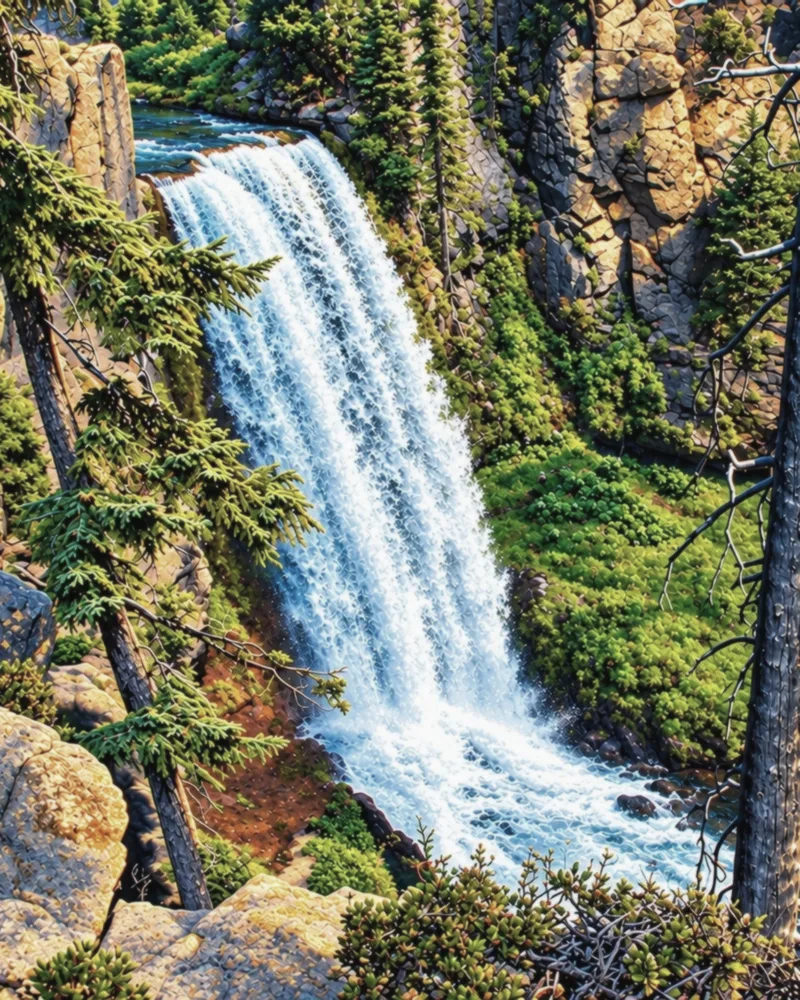
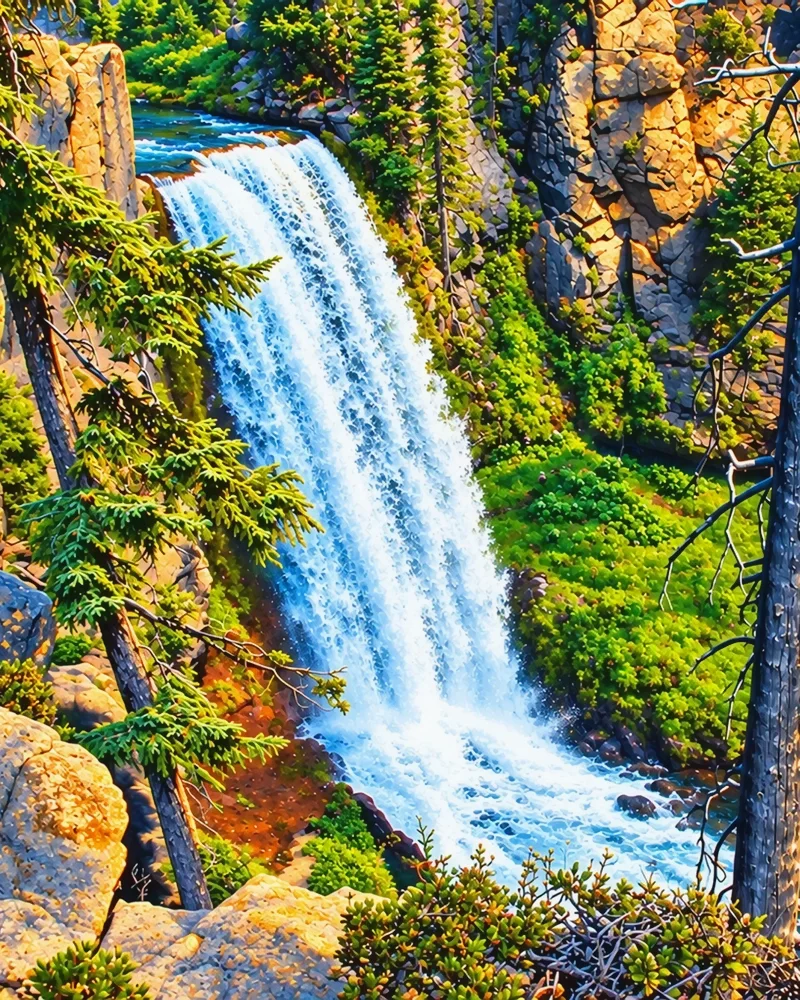
Blended art: no black sky on Cape Lookout, vibrant and less HDR base photos

diff --git a/client/public/outzide-map/assets/blend-art.js b/client/public/outzide-map/assets/blend-art.js
@@ -188,7 +188,7 @@ const RECIPES={
  proxy:{"W":800,"H":1000,"mesh":[[[675,600],[710,585],[745,600],[750,650],[735,690],[690,695],[670,650]]],"cutouts":[{"cls":"fall","look":"bw","poly":[[380,0],[470,0],[490,100],[500,250],[510,380],[540,480],[580,600],[600,700],[615,800],[620,900],[590,940],[470,935],[440,880],[430,800],[405,700],[385,640],[355,560],[345,450],[300,350],[300,150],[340,60]]},{"cls":"veg","look":"bw","poly":[[0,0],[380,0],[340,60],[300,150],[300,350],[345,450],[350,500],[0,500]]},{"cls":"veg","look":"lc","poly":[[0,500],[350,500],[355,560],[385,640],[405,700],[430,800],[440,880],[460,930],[470,1000],[0,1000]]},{"cls":"veg","look":"lc","poly":[[470,0],[800,0],[800,200],[700,230],[500,210],[500,130],[490,100]]},{"cls":"veg","look":"bw","poly":[[500,210],[700,230],[800,200],[800,420],[740,450],[620,430],[540,440],[510,380],[500,250]]},{"cls":"veg","look":"pop","poly":[[540,440],[620,430],[740,450],[800,420],[800,900],[700,890],[620,900],[615,800],[600,700],[580,600],[550,500]]}]},
  tumalo:{"W":800,"H":1000,"mesh":[[[440,930],[490,905],[550,915],[570,960],[540,1000],[450,1000],[420,970]]],"cutouts":[{"cls":"fall","look":"bw","poly":[[150,200],[200,160],[290,140],[330,150],[370,250],[430,360],[480,460],[500,540],[520,620],[555,700],[620,740],[690,790],[700,860],[620,880],[500,870],[420,830],[340,760],[300,680],[280,600],[250,520],[205,420],[195,330],[170,260]]},{"cls":"veg","look":"bw","poly":[[470,0],[800,0],[800,440],[740,420],[700,330],[600,300],[540,260],[500,150]]},{"cls":"veg","look":"lc","poly":[[450,350],[540,290],[610,305],[680,370],[730,440],[740,520],[745,700],[735,800],[690,790],[620,740],[555,700],[520,620],[500,540],[480,460],[430,360]]},{"cls":"veg","look":"pop","poly":[[0,720],[80,710],[130,790],[200,830],[240,900],[330,880],[390,930],[330,1000],[0,1000]]},{"cls":"veg","look":"lc","poly":[[0,0],[150,0],[150,200],[170,260],[195,330],[205,420],[250,520],[280,600],[300,680],[340,760],[300,820],[240,900],[200,830],[130,790],[80,710],[0,720]]},{"cls":"veg","look":"bw","poly":[[330,1000],[390,930],[420,860],[500,880],[620,880],[700,870],[740,900],[800,930],[800,1000]]}]},
  brandywine:{"W":800,"H":1000,"avoid":[],"mesh":[[[600,795],[640,778],[685,790],[680,850],[650,900],[620,960],[590,990],[565,930],[560,860],[575,815]]],"cutouts":[{"cls":"fall","look":"bw","poly":[[402,315],[450,310],[498,318],[500,400],[500,520],[500,700],[498,820],[490,890],[430,905],[360,890],[350,800],[350,650],[355,500],[370,400],[385,340]]},{"cls":"veg","look":"bw","poly":[[0,265],[100,255],[200,265],[300,290],[390,305],[385,340],[370,380],[250,385],[100,380],[0,375]]},{"cls":"veg","look":"bw","poly":[[500,318],[550,300],[600,330],[640,380],[620,470],[630,560],[600,620],[640,700],[600,760],[560,760],[520,700],[500,640],[502,520],[500,400]]},{"cls":"veg","look":"pop","poly":[[700,150],[790,130],[800,700],[760,720],[690,640],[640,560],[620,480],[640,380],[620,330],[690,250]]},{"cls":"veg","look":"lc","poly":[[0,380],[100,385],[250,390],[370,385],[355,500],[350,600],[300,640],[200,640],[100,650],[0,660]]},{"cls":"water","look":"col","poly":[[100,1000],[130,970],[200,935],[290,905],[360,890],[430,905],[490,890],[550,880],[570,930],[580,1000]],"ring":[430,910],"shore":2}]},
- capelookout:{"W":800,"H":1000,"avoid":[],"mesh":[[[255,780],[270,830],[300,900],[330,960],[300,1000],[210,1000],[205,940],[240,900],[250,840]]],"cutouts":[{"cls":"sky","look":"bw","poly":[[0,0],[800,0],[800,250],[600,230],[300,140],[0,130]]},{"cls":"sky","look":"pop","poly":[[0,130],[300,140],[600,230],[800,250],[800,330],[700,335],[600,345],[520,365],[460,358],[400,355],[330,370],[275,400],[180,405],[0,395]]},{"cls":"mountain","look":"bw","poly":[[275,400],[330,370],[400,355],[460,358],[520,365],[600,345],[700,335],[800,330],[800,410],[720,412],[600,408],[480,408],[400,405]]},{"cls":"water","look":"col","poly":[[0,410],[170,410],[400,405],[600,410],[700,420],[680,500],[640,560],[580,620],[500,670],[420,720],[330,770],[250,820],[160,875],[80,920],[0,950]],"ring":[430,520],"shore":3},{"cls":"rock","look":"lc","poly":[[700,415],[780,440],[800,470],[800,520],[740,575],[690,595],[630,640],[590,690],[550,740],[510,800],[470,850],[420,900],[380,960],[330,1000],[0,1000],[0,950],[80,920],[160,875],[250,820],[330,770],[420,720],[500,670],[580,620],[640,560],[680,500]]},{"cls":"veg","look":"bw","poly":[[800,520],[800,1000],[330,1000],[380,960],[420,900],[470,850],[510,800],[550,740],[590,690],[630,640],[690,595],[740,575]]}]},
+ capelookout:{"W":800,"H":1000,"avoid":[],"mesh":[[[255,780],[270,830],[300,900],[330,960],[300,1000],[210,1000],[205,940],[240,900],[250,840]]],"cutouts":[{"cls":"sky","look":"lc","poly":[[0,0],[800,0],[800,250],[600,230],[300,140],[0,130]]},{"cls":"sky","look":"pop","poly":[[0,130],[300,140],[600,230],[800,250],[800,330],[700,335],[600,345],[520,365],[460,358],[400,355],[330,370],[275,400],[180,405],[0,395]]},{"cls":"mountain","look":"bw","poly":[[275,400],[330,370],[400,355],[460,358],[520,365],[600,345],[700,335],[800,330],[800,410],[720,412],[600,408],[480,408],[400,405]]},{"cls":"water","look":"col","poly":[[0,410],[170,410],[400,405],[600,410],[700,420],[680,500],[640,560],[580,620],[500,670],[420,720],[330,770],[250,820],[160,875],[80,920],[0,950]],"ring":[430,520],"shore":3},{"cls":"rock","look":"lc","poly":[[700,415],[780,440],[800,470],[800,520],[740,575],[690,595],[630,640],[590,690],[550,740],[510,800],[470,850],[420,900],[380,960],[330,1000],[0,1000],[0,950],[80,920],[160,875],[250,820],[330,770],[420,720],[500,670],[580,620],[640,560],[680,500]]},{"cls":"veg","look":"bw","poly":[[800,520],[800,1000],[330,1000],[380,960],[420,900],[470,850],[510,800],[550,740],[590,690],[630,640],[690,595],[740,575]]}]},
  latourell:{"W":800,"H":1000,"avoid":[],"mesh":[[[175,790],[215,775],[240,810],[245,850],[225,870],[185,860],[170,830]]],"cutouts":[{"cls":"fall","look":"bw","poly":[[388,100],[432,96],[440,200],[442,300],[444,420],[447,560],[448,700],[452,800],[448,880],[430,930],[390,930],[392,850],[390,700],[386,560],[380,420],[378,300],[382,200]]},{"cls":"veg","look":"bw","poly":[[90,500],[200,480],[385,520],[390,700],[160,705],[110,680],[80,600]]},{"cls":"veg","look":"pop","poly":[[488,140],[545,105],[620,140],[690,230],[720,300],[680,370],[620,420],[540,430],[505,350],[490,250]]},{"cls":"veg","look":"bw","poly":[[449,440],[540,430],[600,480],[600,560],[585,680],[560,760],[450,750],[447,560]]},{"cls":"veg","look":"lc","poly":[[700,300],[740,290],[770,400],[800,470],[800,1000],[560,1000],[520,900],[560,840],[600,770],[610,600],[650,460]]},{"cls":"water","look":"col","poly":[[300,905],[370,930],[440,925],[500,935],[545,940],[550,1000],[330,1000],[290,950]],"ring":[430,950],"shore":2}]}
 };
 const PLACE_MATCH=[['garibaldi',/Garibaldi Lake/i],['falls',/Silver Falls/i],['rooster',/Rooster Rock/i]];

diff --git a/client/src/components/outz/OutzBlendArt.tsx b/client/src/components/outz/OutzBlendArt.tsx
@@ -6,11 +6,11 @@ let engine:Promise<BlendModule>|undefined;
 let styles=false;
 /** The blend engine is a plain ES module shared with the Outzide map, loaded like the photo motion script so both draw the same art. */
 function loadEngine(){
- if(!styles){styles=true;const link=document.createElement('link');link.rel='stylesheet';link.href='/outzide-map/assets/blend-art.css?v=20261024-zor';document.head.append(link);}
+ if(!styles){styles=true;const link=document.createElement('link');link.rel='stylesheet';link.href='/outzide-map/assets/blend-art.css?v=20261024-vivid';document.head.append(link);}
  return engine??=new Promise<BlendModule>((resolve,reject)=>{
   const scope=window as Window&{__outzBlendArt?:BlendModule};
   if(scope.__outzBlendArt){resolve(scope.__outzBlendArt);return;}
-  const script=document.createElement('script');script.type='module';script.src='/outzide-map/assets/blend-art.js?v=20261024-zor';
+  const script=document.createElement('script');script.type='module';script.src='/outzide-map/assets/blend-art.js?v=20261024-vivid';
   script.onload=()=>scope.__outzBlendArt?resolve(scope.__outzBlendArt):reject(new Error('Blend art unavailable'));
   script.onerror=()=>reject(new Error('Blend art unavailable'));document.head.append(script);
  });

diff --git a/client/public/outzide-map/assets/destination-photos.js b/client/public/outzide-map/assets/destination-photos.js
@@ -38,7 +38,7 @@ export function createPhotoMotion(scope=globalThis){
 
 // Blended art: the engine mounts into the marked photo span and the layered photo hides behind it. Falls back to the photo if it cannot load.
 const blendOff=new Set();let blendEngine;
-const loadBlend=()=>blendEngine??=import('./blend-art.js?v=20261024-zor');
+const loadBlend=()=>blendEngine??=import('./blend-art.js?v=20261024-vivid');
 export function enhanceBlend(root=document){
  for(const entry of [...blendOff])if(!entry.el.isConnected){entry.off?.();blendOff.delete(entry);}
  root.querySelectorAll('.outz-photo[data-blend-place]:not([data-blend-ready])').forEach(el=>{

diff --git a/client/public/outzide-map/index.html b/client/public/outzide-map/index.html
@@ -26,7 +26,7 @@
 <link rel="stylesheet" href="assets/browse-sheet.css?v=20261014-redesign">
 <link rel="stylesheet" href="assets/library-motifs.css?v=20261016-library">
 <link rel="stylesheet" href="assets/destination-photos.css?v=20261024-wide">
-<link rel="stylesheet" href="assets/blend-art.css?v=20261024-zor"><link rel="stylesheet" href="assets/outz-demo.css?v=20261024-alt">
+<link rel="stylesheet" href="assets/blend-art.css?v=20261024-vivid"><link rel="stylesheet" href="assets/outz-demo.css?v=20261024-alt">
 </head>
 <body class="outzide-shell" data-map="outzide" data-drawer="closed">
 <div class="oz-top">
